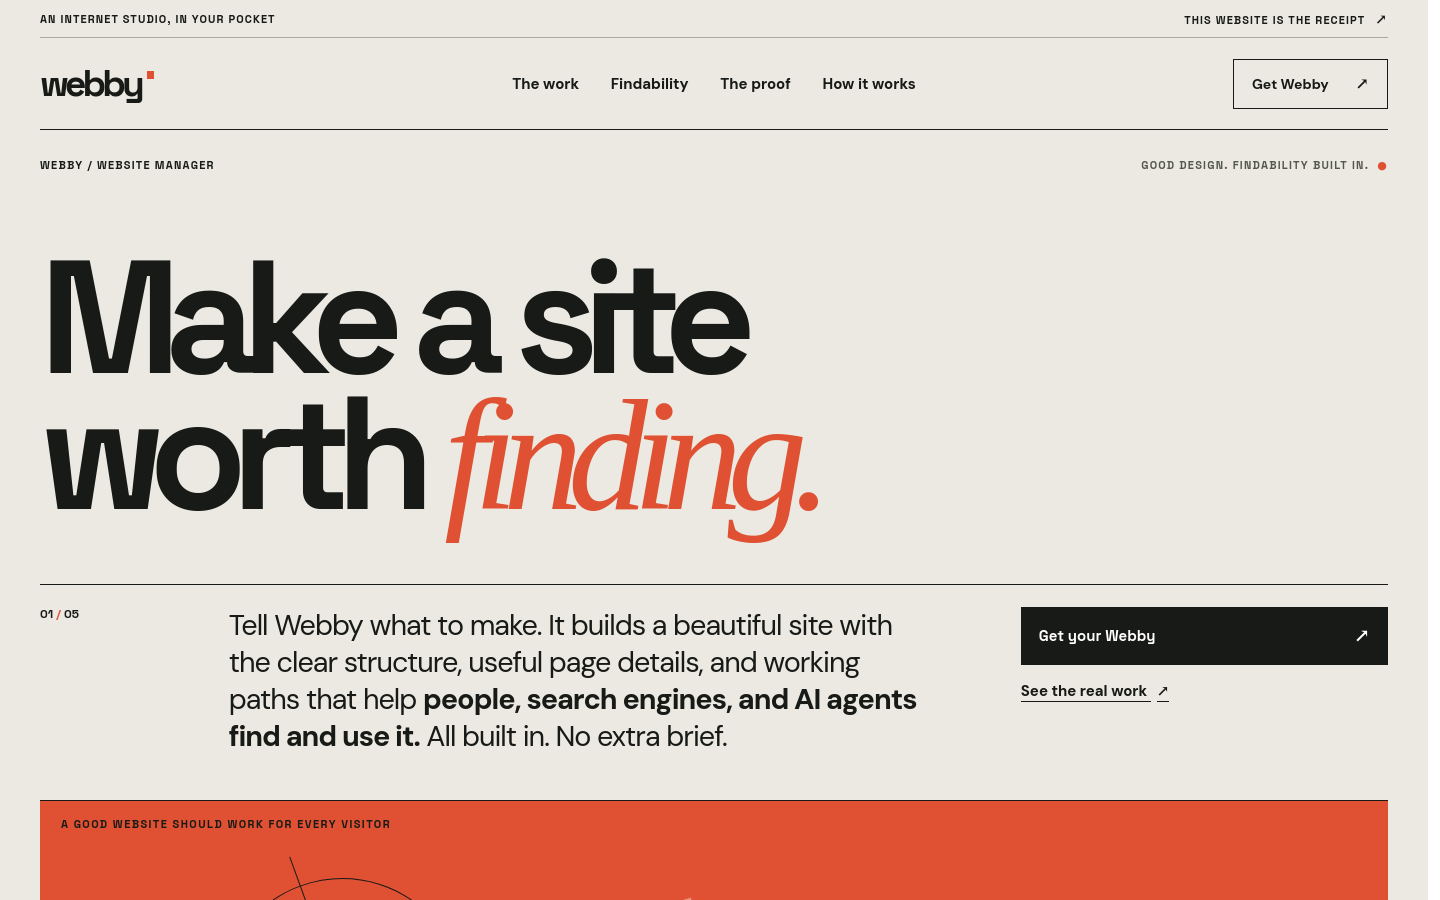
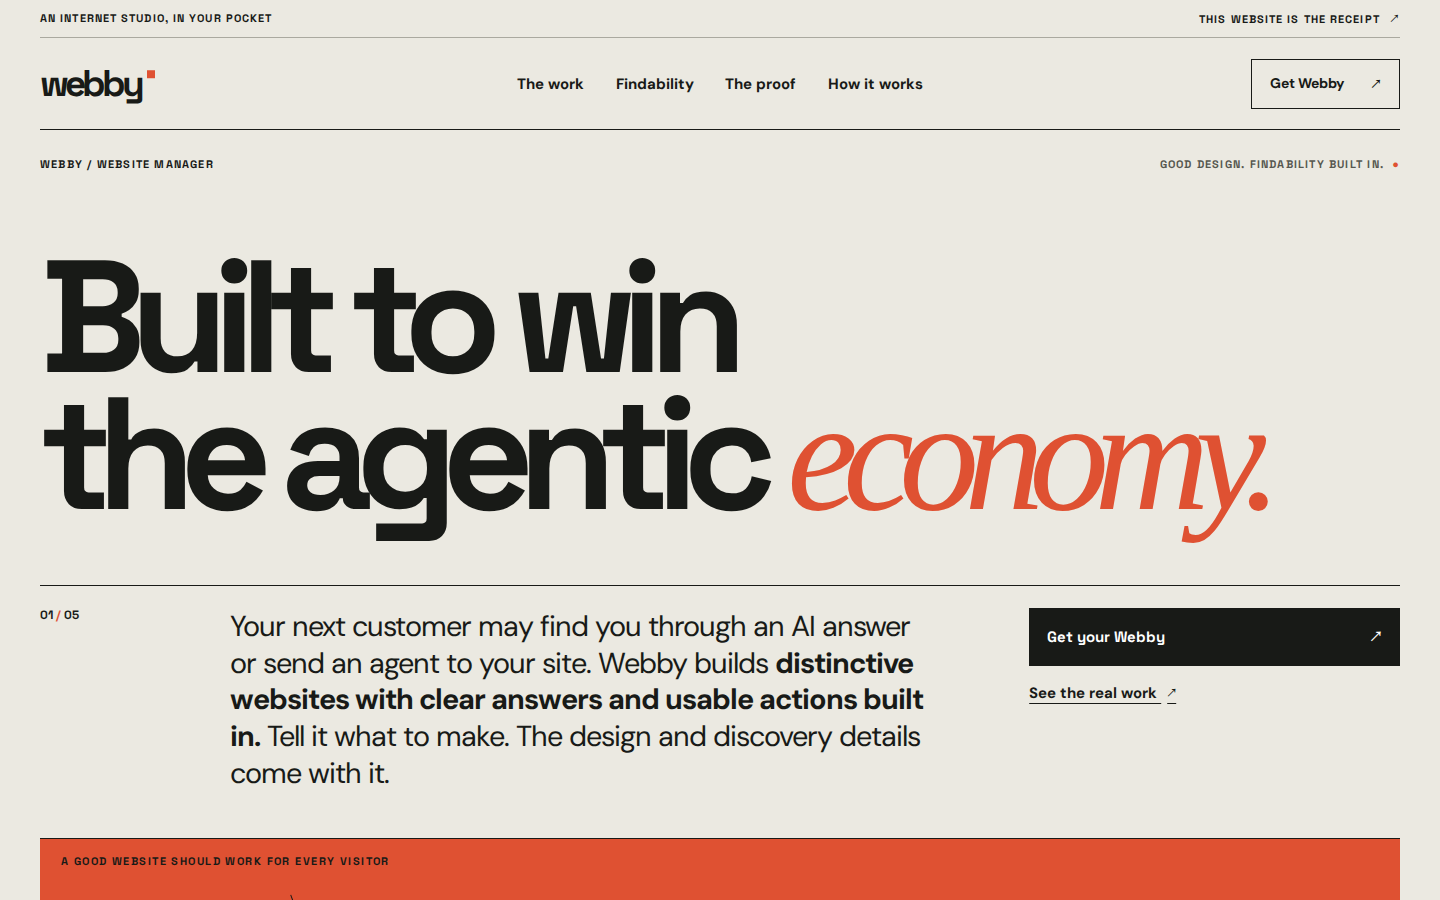
Position Webby for the agentic economy and verify rendered layouts

diff --git a/site/index.html b/site/index.html
@@ -4,19 +4,34 @@
     <meta charset="utf-8" />
     <meta name="viewport" content="width=device-width, initial-scale=1" />
     <meta name="theme-color" content="#ebe9e1" />
-    <meta name="description" content="Webby creates and updates beautiful GitHub-backed websites from chat. Clear structure, useful page details, working links, and labeled actions come built in, so people, search engines, and AI agents can find and use them. You review every change." />
+    <meta name="description" content="Built to win the agentic economy. Webby creates distinctive websites from chat, with clear answers for AI search and usable actions for browsing agents built in. Choose your models; review every change." />
     <meta property="og:type" content="website" />
-    <meta property="og:title" content="Webby — Websites worth finding" />
-    <meta property="og:description" content="Beautiful sites with search and AI-agent readability built in. Create, update, and check from chat; review every change." />
+    <meta property="og:title" content="Webby — Built to win the agentic economy" />
+    <meta property="og:description" content="Distinctive websites. Clear answers for AI search. Usable actions for browsing agents. Built in, from your first brief. Choose your models; review every change." />
     <meta property="og:url" content="https://bubba311.github.io/webby-website-manager/" />
     <meta property="og:image" content="https://bubba311.github.io/webby-website-manager/social-card.png" />
-    <meta property="og:image:alt" content="Webby — Look good. Be found. Create, update, and check websites." />
+    <meta property="og:image:alt" content="Webby — Built to win the agentic economy. Design, discovery, and agent access built in." />
     <meta name="twitter:card" content="summary_large_image" />
     <link rel="canonical" href="https://bubba311.github.io/webby-website-manager/" />
     <link rel="icon" href="favicon.svg" type="image/svg+xml" />
     <link rel="preload" href="fonts/space-grotesk-latin.woff2" as="font" type="font/woff2" crossorigin />
     <link rel="preload" href="fonts/dm-sans-latin.woff2" as="font" type="font/woff2" crossorigin />
-    <title>Webby — Websites worth finding</title>
+    <title>Webby — Built to win the agentic economy</title>
+    <script type="application/ld+json">
+      {
+        "@context": "https://schema.org",
+        "@type": "SoftwareApplication",
+        "name": "Webby Website Manager",
+        "applicationCategory": "DeveloperApplication",
+        "operatingSystem": "Linux",
+        "url": "https://bubba311.github.io/webby-website-manager/",
+        "description": "An open-source website manager that creates, updates, and checks GitHub-backed websites from Plow Chat. It combines visual design, clear content for search and AI answers, browser usability checks, and optional model-selected drafts delivered as pull requests.",
+        "sameAs": [
+          "https://github.com/bubba311/webby-website-manager",
+          "https://aiworthusing.com/agent-index/webby-website-manager"
+        ]
+      }
+    </script>
     <link rel="stylesheet" href="styles.css" />
     <script src="site.js" defer></script>
   </head>
@@ -42,10 +57,10 @@
       <main id="main">
         <section class="hero frame" id="top" aria-labelledby="hero-title">
           <div class="hero-meta"><span>WEBBY / WEBSITE MANAGER</span><span>GOOD DESIGN. FINDABILITY BUILT IN. <span aria-hidden="true">●</span></span></div>
-          <h1 id="hero-title">Make a site<br /> <span>worth <em>finding.</em></span></h1>
+          <h1 id="hero-title">Built to win<br /> <span>the agentic <em>economy.</em></span></h1>
           <div class="hero-deck">
             <p class="hero-index">01 <span aria-hidden="true">/</span> 05</p>
-            <p class="hero-lead">Tell Webby what to make. It builds a beautiful site with the clear structure, useful page details, and working paths that help <strong>people, search engines, and AI agents find and use it.</strong> All built in. No extra brief.</p>
+            <p class="hero-lead">Your next customer may find you through an AI answer or send an agent to your site. Webby builds <strong>distinctive websites with clear answers and usable actions built in.</strong> Tell it what to make. The design and discovery details come with it.</p>
             <div class="hero-actions"><a class="primary-link" href="#start">Get your Webby <span aria-hidden="true">↗</span></a><a class="text-link" href="#proof">See the real work <span aria-hidden="true">↗</span></a></div>
           </div>
           <div class="hero-plate">
@@ -57,22 +72,23 @@
 
         <section class="work-section frame" id="work" aria-labelledby="work-title">
           <div class="section-head"><span>02 / THE WORK</span><span>ONE CHAT. MANY BETTER PAGES.</span></div>
-          <div class="work-grid"><h2 id="work-title">A website manager<br /> with <em>taste.</em></h2><p>Webby is an open-source teammate for GitHub-backed sites. It takes a short brief, makes the actual change, and gives you a pull request to inspect before anything ships.</p></div>
+          <div class="work-grid"><h2 id="work-title">A website manager<br /> with <em>taste.</em></h2><p>Webby is an open-source teammate for GitHub-backed sites. Choose an available connected model if you like; Webby makes the change and opens a pull request for the owner to review before anything ships.</p></div>
           <div class="work-list">
             <article class="work-item"><span class="work-number">01</span><div><h3>Create</h3><p>Start with a name, a few facts, and a goal. Webby drafts a polished site with clear page structure and actions, then opens it for review.</p></div><span class="work-mark" aria-hidden="true">↗</span></article>
             <article class="work-item"><span class="work-number">02</span><div><h3>Update</h3><p>Text a new headline, product detail, or page. Webby keeps it readable and usable as it edits the code on a branch.</p></div><span class="work-mark" aria-hidden="true">↗</span></article>
-            <article class="work-item"><span class="work-number">03</span><div><h3>Check</h3><p>Give Webby a live URL. It inspects access, page clarity, and usable actions, then names the exact issue and a fix.</p></div><span class="work-mark" aria-hidden="true">↗</span></article>
+            <article class="work-item"><span class="work-number">03</span><div><h3>Check</h3><p>Give Webby a live URL. It inspects access, page clarity, and usable actions, then gives you evidence and specific fixes to review.</p></div><span class="work-mark" aria-hidden="true">↗</span></article>
+            <article class="work-item"><span class="work-number">04</span><div><h3>Choose</h3><p>Optional: choose Codex, Claude, or another model available through your connected accounts for individual sections or the whole site. Webby brings the drafts together for one review. <a href="https://github.com/bubba311/webby-website-manager/blob/main/docs/MODEL_CHOICE.md">See model connections ↗</a></p></div><span class="work-mark" aria-hidden="true">↗</span></article>
           </div>
         </section>
 
         <section class="find-section" id="findable" aria-labelledby="find-title">
           <div class="frame find-inner">
             <div class="section-head section-head-light"><span>03 / FINDABILITY</span><span>THE QUIET HALF OF GREAT DESIGN</span></div>
-            <div class="find-top"><h2 id="find-title">The good<br /> stuff is <em>built</em><br /> in.</h2><div class="find-aside"><span class="find-symbol" aria-hidden="true">w</span><p><strong>Stand out to people. Make sense to AI.</strong> Your next visitor might use a browser, a search result, or an AI agent. Webby handles the quiet details while it builds: useful descriptions, readable content, working links, and labeled actions. You don't need to learn the mechanics.</p></div></div>
+            <div class="find-top"><h2 id="find-title">The good<br /> stuff is <em>built</em><br /> in.</h2><div class="find-aside"><span class="find-symbol" aria-hidden="true">w</span><p><strong>Designed for discovery. Ready for action.</strong> Useful descriptions, accurate page titles, working links, and labeled actions come built in to support discovery and citations in AI answers, and help browsing agents navigate your pages. You don't need to learn the mechanics.</p></div></div>
             <div class="find-triptych">
-              <article><span>01 / ACCESS</span><h3>Can they <em>reach</em> it?</h3><p>Webby checks the page response and the signals that tell search and AI services whether they may visit.</p></article>
-              <article><span>02 / MEANING</span><h3>Can they <em>read</em> it?</h3><p>It looks for useful visible text, clear page information, and links that point somewhere real.</p></article>
-              <article><span>03 / ACTION</span><h3>Can they <em>use</em> it?</h3><p>It checks labels on links, buttons, and form fields in the page HTML, then flags browser tasks for manual review.</p></article>
+              <article><span>01 / ACCESS</span><h3>Can they <em>reach</em> it?</h3><p>Webby checks whether the page responds and what its access instructions tell search and AI services about visiting and indexing it.</p></article>
+              <article><span>02 / MEANING</span><h3>Can they <em>read</em> it?</h3><p>It looks for useful visible text, a clear page title and description, meaningful headings, and links that point somewhere real.</p></article>
+              <article><span>03 / ACTION</span><h3>Can they <em>use</em> it?</h3><p>It checks named links, buttons, and fields, captures pages at real screen sizes, and samples keyboard access. Completing a full task, such as submitting a form, needs a targeted browser check.</p></article>
             </div>
             <div class="find-bottom"><p>Built into the draft. For a live site, ask for evidence and a specific fix.</p><a href="#audit-request">See a request to send Webby <span aria-hidden="true">↘</span></a></div>
           </div>
@@ -85,13 +101,13 @@
 
         <section class="how-section frame" id="how" aria-labelledby="how-title">
           <div class="section-head"><span>05 / YOUR TURN</span><span>LESS PROCESS. MORE PROGRESS.</span></div>
-          <div class="how-grid"><h2 id="how-title">All you do<br /> is <em>ask.</em></h2><div class="how-steps"><article><span>01</span><div><h3>Connect once</h3><p>Install Webby on your Plow line and connect your GitHub account.</p></div></article><article><span>02</span><div><h3>Send a short brief</h3><p>Bring a site or describe a new one. Webby can ask for the few facts it still needs.</p></div></article><article><span>03</span><div><h3>Review the work</h3><p>Inspect the pull request, approve what you like, and decide when to publish.</p></div></article></div></div>
+          <div class="how-grid"><h2 id="how-title">All you do<br /> is <em>ask.</em></h2><div class="how-steps"><article><span>01</span><div><h3>Connect once</h3><p>Set up Webby in Plow Chat, then connect your GitHub account. The <a href="https://github.com/bubba311/webby-website-manager/blob/main/docs/GETTING_STARTED.md">setup guide</a> walks you through it.</p></div></article><article><span>02</span><div><h3>Send a short brief</h3><p>Bring a site or describe a new one. Webby can ask for the few facts it still needs.</p></div></article><article><span>03</span><div><h3>Review the work</h3><p>Inspect the pull request, approve what you like, and decide when to publish.</p></div></article></div></div>
         </section>
 
         <section class="start-section" id="start" aria-labelledby="start-title"><div class="frame start-inner"><div class="start-heading"><span>WEBBY IS READY WHEN YOU ARE</span><h2 id="start-title">Give your idea<br /> <em>somewhere to live.</em></h2><p>Bring an idea or a GitHub-backed site. Webby handles the design and the details that make it easier for search and AI agents to understand. You just review the work.</p><a class="start-button" href="https://github.com/bubba311/webby-website-manager">Open setup on GitHub <span aria-hidden="true">↗</span></a><a class="start-secondary" href="https://aiworthusing.com/agent-index/webby-website-manager">View the Agent Index listing ↗</a></div><div class="task-list"><div class="task" id="create-request"><span class="task-label">COPY A FIRST MESSAGE / CREATE</span><p id="first-task-text">Create a website for my startup. Ask me for its name, what it does, and where the main button should go. Open a pull request for review; don’t publish yet.</p><button class="copy-button" type="button" data-copy-target="first-task-text" aria-live="polite">Copy this message <span aria-hidden="true">↗</span></button></div><div class="task" id="audit-request"><span class="task-label">COPY A FIRST MESSAGE / CHECK</span><p id="audit-task-text">Check my approved website for search access and browser-agent usability. Show the page evidence, likely impact, and top three fixes. Don’t edit yet.</p><button class="copy-button" type="button" data-copy-target="audit-task-text" aria-live="polite">Copy this message <span aria-hidden="true">↗</span></button></div><p class="task-foot">Today: GitHub-backed sites. Site changes stay in your hands until you approve them.</p></div></div></section>
       </main>
 
-      <footer class="site-footer frame"><div class="footer-top"><a class="footer-wordmark" href="#top" aria-label="Webby home">webby<span class="brand-stop" aria-hidden="true"></span></a><p>For websites worth seeing<br /> and worth finding.</p></div><div class="footer-bottom"><span>OPEN SOURCE / MADE WITH OPENCLAW + PLOW</span><div><a href="https://github.com/bubba311/webby-website-manager">GitHub ↗</a><a href="https://aiworthusing.com/agent-index/webby-website-manager">Agent Index ↗</a><a href="#top">Back to top ↑</a></div></div></footer>
+      <footer class="site-footer frame"><div class="footer-top"><a class="footer-wordmark" href="#top" aria-label="Webby home">webby<span class="brand-stop" aria-hidden="true"></span></a><p>Your website.<br /> Your agentic edge.</p></div><div class="footer-bottom"><span>OPEN SOURCE / MADE WITH OPENCLAW + PLOW</span><div><a href="https://github.com/bubba311/webby-website-manager">GitHub ↗</a><a href="https://aiworthusing.com/agent-index/webby-website-manager">Agent Index ↗</a><a href="#top">Back to top ↑</a></div></div></footer>
     </div>
   </body>
 </html>

diff --git a/site/styles.css b/site/styles.css
@@ -60,9 +60,9 @@ a:focus-visible, button:focus-visible { outline: 3px solid var(--signal); outlin
 .hero-meta > span:last-child { color: var(--muted); }
 .hero-meta > span:last-child span { color: var(--signal); padding-left: 4px; }
 .hero h1 { margin-top: clamp(42px, 5.8vw, 83px); font-size: clamp(86px, 11.1vw, 174px); line-height: .78; letter-spacing: -.098em; font-weight: 700; }
-.hero h1 > span { display: inline-block; white-space: nowrap; margin-top: 12px; }
+.hero h1 > span { display: inline-block; max-width: 100%; white-space: normal; margin-top: 12px; }
 .hero h1 em, .work-grid h2 em, .proof-copy h2 em, .how-grid h2 em, .start-heading h2 em { font-family: Georgia, "Times New Roman", serif; font-weight: 400; letter-spacing: -.093em; }
-.hero h1 em { color: var(--signal); }
+.hero h1 em { color: var(--signal); overflow-wrap: anywhere; }
 .hero-deck { display: grid; grid-template-columns: minmax(75px, .25fr) minmax(0, 1.4fr) minmax(205px, .7fr); align-items: start; gap: clamp(25px, 4vw, 70px); border-top: 1px solid var(--ink); margin-top: 66px; padding-block: 22px 46px; }
 .hero-index { font: 700 12px/1.3 "Space Grotesk", sans-serif; }
 .hero-index span { color: var(--signal); }
@@ -148,8 +148,9 @@ a:focus-visible, button:focus-visible { outline: 3px solid var(--signal); outlin
 .how-steps p { max-width: 405px; margin-top: 9px; color: #454840; font-size: 16px; line-height: 1.55; }
 .start-section { background: var(--signal); border-block: 1px solid var(--ink); }
 .start-inner { display: grid; grid-template-columns: minmax(0, 1.1fr) minmax(0, .9fr); gap: clamp(45px, 8vw, 125px); padding-block: clamp(74px, 8vw, 118px); }
+.start-inner > * { min-width: 0; }
 .start-heading > span, .task-label { font: 700 11px/1.2 "Space Grotesk", sans-serif; letter-spacing: .13em; }
-.start-heading h2 { margin: 33px 0 27px; font-size: clamp(65px, 7.7vw, 115px); line-height: .87; letter-spacing: -.088em; }
+.start-heading h2 { margin: 33px 0 27px; font-size: clamp(65px, 7.7vw, 115px); line-height: .87; letter-spacing: -.088em; overflow-wrap: anywhere; }
 .start-heading h2 em { color: var(--light); }
 .start-heading > p { max-width: 505px; font-size: clamp(17px, 1.6vw, 21px); line-height: 1.48; }
 .start-button { width: fit-content; min-width: 275px; margin-top: 35px; background: var(--light); color: var(--ink); }
@@ -165,7 +166,7 @@ a:focus-visible, button:focus-visible { outline: 3px solid var(--signal); outlin
 .task-foot { margin-top: 20px; font-size: 15px; line-height: 1.45; }
 .site-footer { padding-block: 55px 28px; }
 .footer-top { display: flex; justify-content: space-between; align-items: start; gap: 40px; }
-.footer-wordmark { font-size: clamp(76px, 12vw, 170px); }
+.footer-wordmark { max-width: 100%; font-size: clamp(76px, 12vw, 170px); overflow-wrap: anywhere; }
 .footer-wordmark .brand-stop { width: .15em; height: .15em; margin-left: .1em; transform: translateY(-.38em); }
 .footer-top p { margin: 17px 4px 0 0; font-size: clamp(18px, 2vw, 26px); line-height: 1.25; letter-spacing: -.035em; }
 .footer-bottom { display: flex; justify-content: space-between; gap: 25px; margin-top: 62px; border-top: 1px solid var(--ink); padding-top: 17px; font: 700 12px/1.3 "Space Grotesk", sans-serif; letter-spacing: .08em; }
@@ -226,7 +227,6 @@ a:focus-visible, button:focus-visible { outline: 3px solid var(--signal); outlin
   .hero-meta > span:last-child { max-width: 125px; text-align: right; }
   .hero h1 { margin-top: 55px; font-size: clamp(58px, 11.9vw, 78px); line-height: .84; letter-spacing: -.095em; }
   .hero h1 > span { margin-top: 10px; white-space: normal; }
-  .hero h1 em { white-space: nowrap; }
   .hero-deck { grid-template-columns: 1fr; gap: 14px; margin-top: 42px; padding-bottom: 42px; }
   .hero-index { font-size: 10px; }
   .hero-lead { font-size: clamp(19px, 5vw, 23px); line-height: 1.3; }

diff --git a/README.md b/README.md
@@ -1,5 +1,5 @@
 <p align="center">
-  <a href="https://bubba311.github.io/webby-website-manager/"><img src="site/social-card.png" alt="Webby: Look good. Be found. Create, update, and check websites." width="960" /></a>
+  <a href="https://bubba311.github.io/webby-website-manager/"><img src="site/social-card.png" alt="Webby: Built to win the agentic economy. Design, discovery, and agent access built in." width="960" /></a>
 </p>
 
 # Webby. Your website teammate.
@@ -36,7 +36,7 @@ You can also choose a reader model to check what the page communicates: the offe
 
 ## This is Webby's own website.
 
-![Preview of Webby's editorial website, with the headline Make a site worth finding](docs/assets/webby-site-preview.png)
+![Preview of Webby's editorial website, with the headline Built to win the agentic economy](docs/assets/webby-site-preview.png)
 
 Webby made its first real change to the site in [`site/`](site/). [PR #1](https://github.com/bubba311/webby-website-manager/pull/1) contains that change and the create and check workflows. [PR #2](https://github.com/bubba311/webby-website-manager/pull/2) contains the editorial redesign previewed above. The public site deploys from `main` after a reviewed merge.
 
